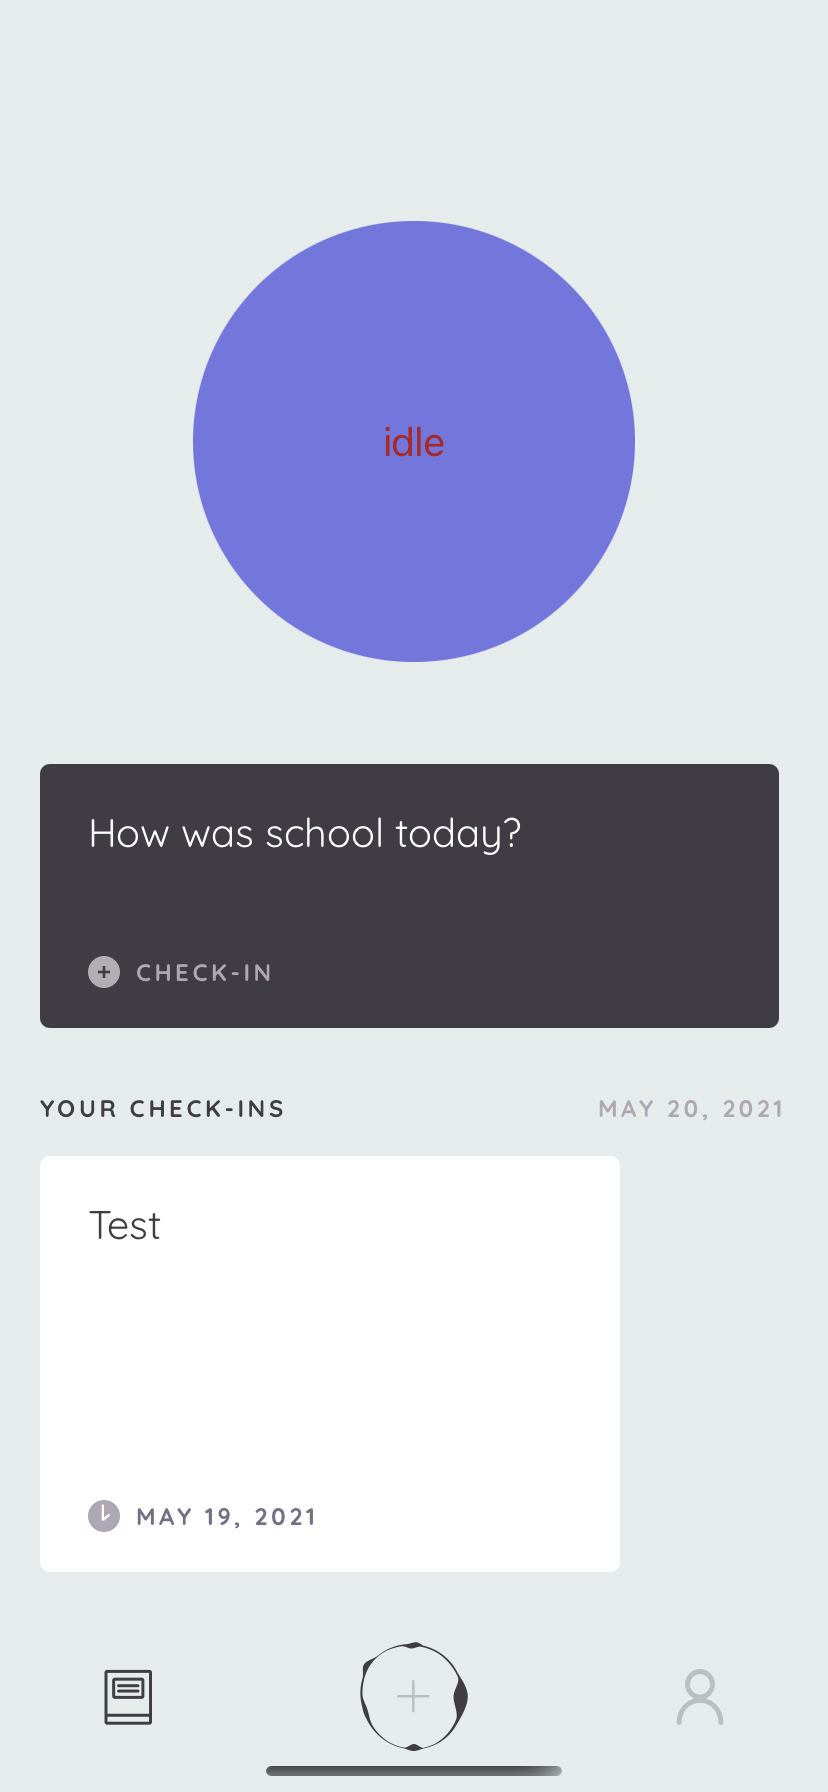
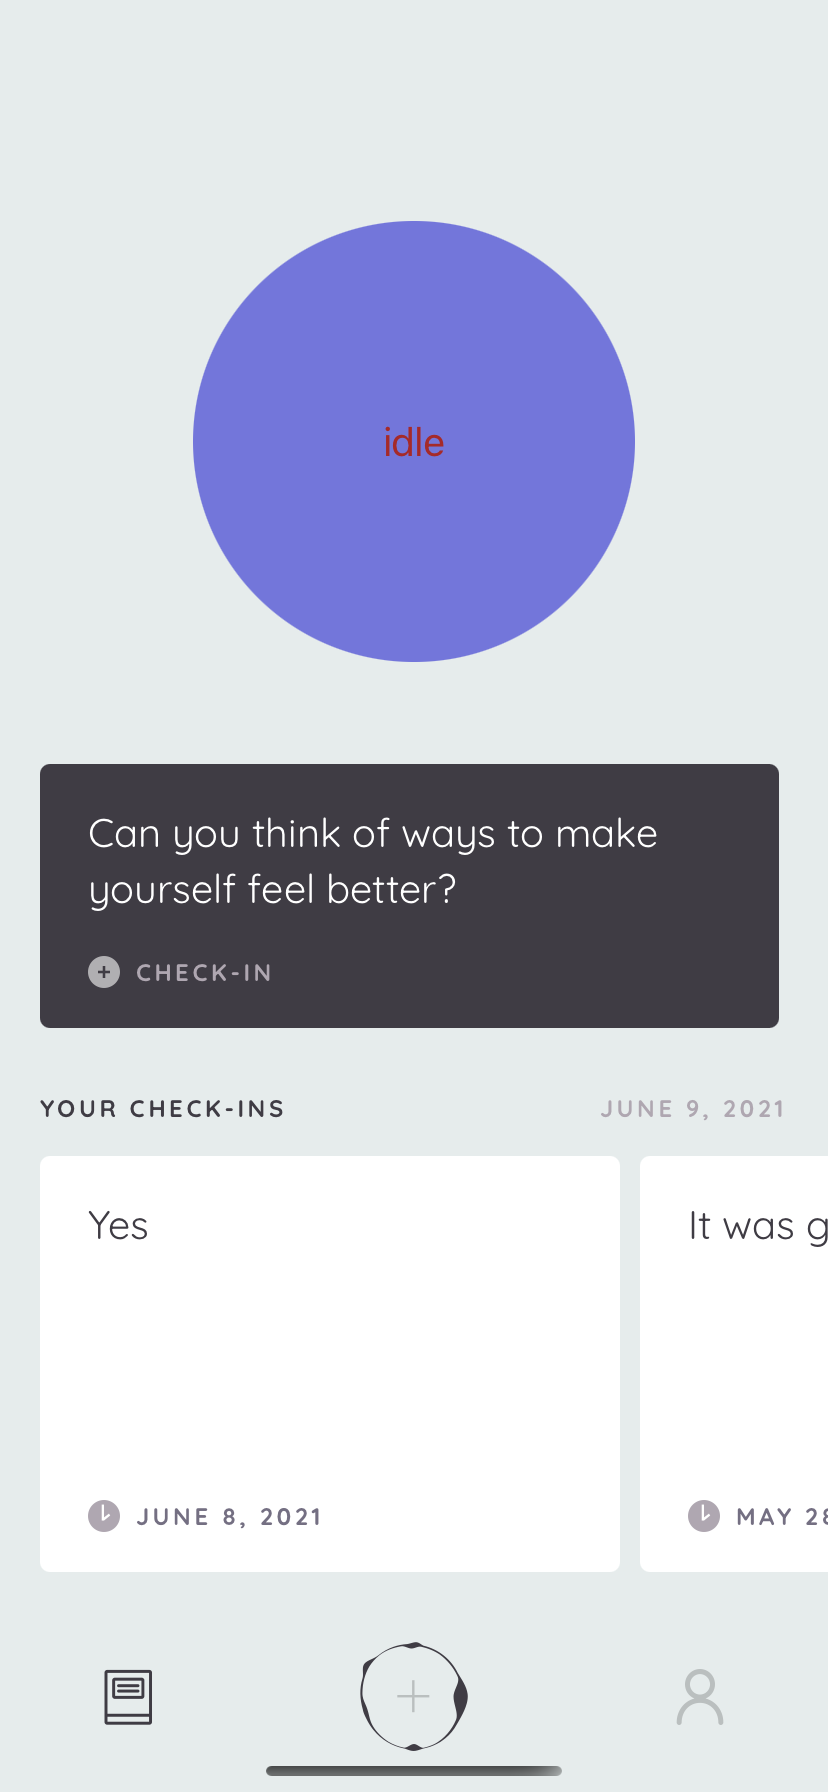
more screenshots and update fastlane

diff --git a/mobile/ios/screenshots/screenshots.html b/mobile/ios/screenshots/screenshots.html
@@ -100,7 +100,7 @@
       <hr>
       <table>
         <tr>
-          <th colspan="5">
+          <th colspan="6">
             <a id="en-US-iPhone 11" class="deviceName" href="#en-US-iPhone 11">iPhone 11</a>
           </th>
         </tr>
@@ -111,23 +111,28 @@
             </a>
           </td>
           <td>
+            <a href="./en-US/iPhone 11-checkIn.png" target="_blank" class="screenshotLink">
+              <img class="screenshot" src="./en-US/iPhone 11-checkIn.png" style="width: 100%;" alt="en-US iPhone 11" data-tab="1" data-counter="2">
+            </a>
+          </td>
+          <td>
             <a href="./en-US/iPhone 11-enterEmailScreen.png" target="_blank" class="screenshotLink">
-              <img class="screenshot" src="./en-US/iPhone 11-enterEmailScreen.png" style="width: 100%;" alt="en-US iPhone 11" data-tab="1" data-counter="2">
+              <img class="screenshot" src="./en-US/iPhone 11-enterEmailScreen.png" style="width: 100%;" alt="en-US iPhone 11" data-tab="1" data-counter="3">
             </a>
           </td>
           <td>
             <a href="./en-US/iPhone 11-enterPassword.png" target="_blank" class="screenshotLink">
-              <img class="screenshot" src="./en-US/iPhone 11-enterPassword.png" style="width: 100%;" alt="en-US iPhone 11" data-tab="1" data-counter="3">
+              <img class="screenshot" src="./en-US/iPhone 11-enterPassword.png" style="width: 100%;" alt="en-US iPhone 11" data-tab="1" data-counter="4">
             </a>
           </td>
           <td>
             <a href="./en-US/iPhone 11-home.png" target="_blank" class="screenshotLink">
-              <img class="screenshot" src="./en-US/iPhone 11-home.png" style="width: 100%;" alt="en-US iPhone 11" data-tab="1" data-counter="4">
+              <img class="screenshot" src="./en-US/iPhone 11-home.png" style="width: 100%;" alt="en-US iPhone 11" data-tab="1" data-counter="5">
             </a>
           </td>
           <td>
             <a href="./en-US/iPhone 11-loggedIn.png" target="_blank" class="screenshotLink">
-              <img class="screenshot" src="./en-US/iPhone 11-loggedIn.png" style="width: 100%;" alt="en-US iPhone 11" data-tab="1" data-counter="5">
+              <img class="screenshot" src="./en-US/iPhone 11-loggedIn.png" style="width: 100%;" alt="en-US iPhone 11" data-tab="1" data-counter="6">
             </a>
           </td>
         </tr>
@@ -139,27 +144,27 @@
         <tr>
           <td>
             <a href="./en-US/iPhone 8 Plus-01Launch.png" target="_blank" class="screenshotLink">
-              <img class="screenshot" src="./en-US/iPhone 8 Plus-01Launch.png" style="width: 100%;" alt="en-US iPhone 8 Plus" data-tab="1" data-counter="6">
+              <img class="screenshot" src="./en-US/iPhone 8 Plus-01Launch.png" style="width: 100%;" alt="en-US iPhone 8 Plus" data-tab="1" data-counter="7">
             </a>
           </td>
           <td>
             <a href="./en-US/iPhone 8 Plus-enterEmailScreen.png" target="_blank" class="screenshotLink">
-              <img class="screenshot" src="./en-US/iPhone 8 Plus-enterEmailScreen.png" style="width: 100%;" alt="en-US iPhone 8 Plus" data-tab="1" data-counter="7">
+              <img class="screenshot" src="./en-US/iPhone 8 Plus-enterEmailScreen.png" style="width: 100%;" alt="en-US iPhone 8 Plus" data-tab="1" data-counter="8">
             </a>
           </td>
           <td>
             <a href="./en-US/iPhone 8 Plus-enterPassword.png" target="_blank" class="screenshotLink">
-              <img class="screenshot" src="./en-US/iPhone 8 Plus-enterPassword.png" style="width: 100%;" alt="en-US iPhone 8 Plus" data-tab="1" data-counter="8">
+              <img class="screenshot" src="./en-US/iPhone 8 Plus-enterPassword.png" style="width: 100%;" alt="en-US iPhone 8 Plus" data-tab="1" data-counter="9">
             </a>
           </td>
           <td>
             <a href="./en-US/iPhone 8 Plus-home.png" target="_blank" class="screenshotLink">
-              <img class="screenshot" src="./en-US/iPhone 8 Plus-home.png" style="width: 100%;" alt="en-US iPhone 8 Plus" data-tab="1" data-counter="9">
+              <img class="screenshot" src="./en-US/iPhone 8 Plus-home.png" style="width: 100%;" alt="en-US iPhone 8 Plus" data-tab="1" data-counter="10">
             </a>
           </td>
           <td>
             <a href="./en-US/iPhone 8 Plus-loggedIn.png" target="_blank" class="screenshotLink">
-              <img class="screenshot" src="./en-US/iPhone 8 Plus-loggedIn.png" style="width: 100%;" alt="en-US iPhone 8 Plus" data-tab="1" data-counter="10">
+              <img class="screenshot" src="./en-US/iPhone 8 Plus-loggedIn.png" style="width: 100%;" alt="en-US iPhone 8 Plus" data-tab="1" data-counter="11">
             </a>
           </td>
         </tr>
@@ -196,6 +201,23 @@
           </td>
         </tr>
       </table>
+      <h2 id="checkIn" class="screen">checkIn</h2>
+      <hr>
+      <table>
+        <tr>
+          <th colspan="1">
+            <a id="checkIn-iPhone 11" class="deviceName" href="#checkIn-iPhone 11">iPhone 11</a>
+          </th>
+        </tr>
+        <tr>
+          <td>
+            <a href="./en-US/iPhone 11-checkIn.png" target="_blank" class="screenshotLink">
+              <img class="screenshot" src="./en-US/iPhone 11-checkIn.png" style="width: 100%;" alt="en-US iPhone 11" data-tab="2" data-counter="3">
+            </a>
+            <div class="caption">en-US</div>
+          </td>
+        </tr>
+      </table>
       <h2 id="enterEmailScreen" class="screen">enterEmailScreen</h2>
       <hr>
       <table>
@@ -207,7 +229,7 @@
         <tr>
           <td>
             <a href="./en-US/iPhone 11-enterEmailScreen.png" target="_blank" class="screenshotLink">
-              <img class="screenshot" src="./en-US/iPhone 11-enterEmailScreen.png" style="width: 100%;" alt="en-US iPhone 11" data-tab="2" data-counter="3">
+              <img class="screenshot" src="./en-US/iPhone 11-enterEmailScreen.png" style="width: 100%;" alt="en-US iPhone 11" data-tab="2" data-counter="4">
             </a>
             <div class="caption">en-US</div>
           </td>
@@ -220,7 +242,7 @@
         <tr>
           <td>
             <a href="./en-US/iPhone 8 Plus-enterEmailScreen.png" target="_blank" class="screenshotLink">
-              <img class="screenshot" src="./en-US/iPhone 8 Plus-enterEmailScreen.png" style="width: 100%;" alt="en-US iPhone 8 Plus" data-tab="2" data-counter="4">
+              <img class="screenshot" src="./en-US/iPhone 8 Plus-enterEmailScreen.png" style="width: 100%;" alt="en-US iPhone 8 Plus" data-tab="2" data-counter="5">
             </a>
             <div class="caption">en-US</div>
           </td>
@@ -237,7 +259,7 @@
         <tr>
           <td>
             <a href="./en-US/iPhone 11-enterPassword.png" target="_blank" class="screenshotLink">
-              <img class="screenshot" src="./en-US/iPhone 11-enterPassword.png" style="width: 100%;" alt="en-US iPhone 11" data-tab="2" data-counter="5">
+              <img class="screenshot" src="./en-US/iPhone 11-enterPassword.png" style="width: 100%;" alt="en-US iPhone 11" data-tab="2" data-counter="6">
             </a>
             <div class="caption">en-US</div>
           </td>
@@ -250,7 +272,7 @@
         <tr>
           <td>
             <a href="./en-US/iPhone 8 Plus-enterPassword.png" target="_blank" class="screenshotLink">
-              <img class="screenshot" src="./en-US/iPhone 8 Plus-enterPassword.png" style="width: 100%;" alt="en-US iPhone 8 Plus" data-tab="2" data-counter="6">
+              <img class="screenshot" src="./en-US/iPhone 8 Plus-enterPassword.png" style="width: 100%;" alt="en-US iPhone 8 Plus" data-tab="2" data-counter="7">
             </a>
             <div class="caption">en-US</div>
           </td>
@@ -267,7 +289,7 @@
         <tr>
           <td>
             <a href="./en-US/iPhone 11-home.png" target="_blank" class="screenshotLink">
-              <img class="screenshot" src="./en-US/iPhone 11-home.png" style="width: 100%;" alt="en-US iPhone 11" data-tab="2" data-counter="7">
+              <img class="screenshot" src="./en-US/iPhone 11-home.png" style="width: 100%;" alt="en-US iPhone 11" data-tab="2" data-counter="8">
             </a>
             <div class="caption">en-US</div>
           </td>
@@ -280,7 +302,7 @@
         <tr>
           <td>
             <a href="./en-US/iPhone 8 Plus-home.png" target="_blank" class="screenshotLink">
-              <img class="screenshot" src="./en-US/iPhone 8 Plus-home.png" style="width: 100%;" alt="en-US iPhone 8 Plus" data-tab="2" data-counter="8">
+              <img class="screenshot" src="./en-US/iPhone 8 Plus-home.png" style="width: 100%;" alt="en-US iPhone 8 Plus" data-tab="2" data-counter="9">
             </a>
             <div class="caption">en-US</div>
           </td>
@@ -297,7 +319,7 @@
         <tr>
           <td>
             <a href="./en-US/iPhone 11-loggedIn.png" target="_blank" class="screenshotLink">
-              <img class="screenshot" src="./en-US/iPhone 11-loggedIn.png" style="width: 100%;" alt="en-US iPhone 11" data-tab="2" data-counter="9">
+              <img class="screenshot" src="./en-US/iPhone 11-loggedIn.png" style="width: 100%;" alt="en-US iPhone 11" data-tab="2" data-counter="10">
             </a>
             <div class="caption">en-US</div>
           </td>
@@ -310,7 +332,7 @@
         <tr>
           <td>
             <a href="./en-US/iPhone 8 Plus-loggedIn.png" target="_blank" class="screenshotLink">
-              <img class="screenshot" src="./en-US/iPhone 8 Plus-loggedIn.png" style="width: 100%;" alt="en-US iPhone 8 Plus" data-tab="2" data-counter="10">
+              <img class="screenshot" src="./en-US/iPhone 8 Plus-loggedIn.png" style="width: 100%;" alt="en-US iPhone 8 Plus" data-tab="2" data-counter="11">
             </a>
             <div class="caption">en-US</div>
           </td>

diff --git a/mobile/ios/CompanionKitUITests/CompanionKitUITests.swift b/mobile/ios/CompanionKitUITests/CompanionKitUITests.swift
@@ -39,40 +39,38 @@ class CompanionKitUITests: XCTestCase {
         snapshot("01Launch")
         
         app.otherElements["email"].tap()
-        sleep(1)
+        sleep(2)
         snapshot("enterEmailScreen")
         
         let emailTextField = app.textFields["emailtextfield"]
         emailTextField.tap()
         emailTextField.setText(text: SIGNIN_EMAIL, application: app)
         app.keyboards.buttons["done"].tap()
-        sleep(1)
+        sleep(2)
         snapshot("enterPassword")
-        
-        sleep(1)
 
         // "passwordtextfield" does not show up in app.textFields so using app.descendants(matching: .any) here
         let passwordTextField = app.descendants(matching: .any)["passwordtextfield"]
         passwordTextField.tap()
         passwordTextField.setText(text: SIGNIN_PASSWORD, application: app)
         app.keyboards.buttons["done"].tap()
-        sleep(1)
+        sleep(2)
         snapshot("loggedIn")
       }
       
       let skipButton = app.descendants(matching: .any)["skipBtn"]
       skipButton.tap()
-      sleep(1)
+      sleep(2)
       snapshot("home")
       
       let checkInCard = app.descendants(matching: .any)["CheckInCard0"]
       checkInCard.tap()
-      sleep(1)
+      sleep(2)
       snapshot("checkIn")
       
       let back = app.otherElements["checkInDetailsback"]
       back.tap()
-//      sleep(10)
+      sleep(2)
       
     }
   
